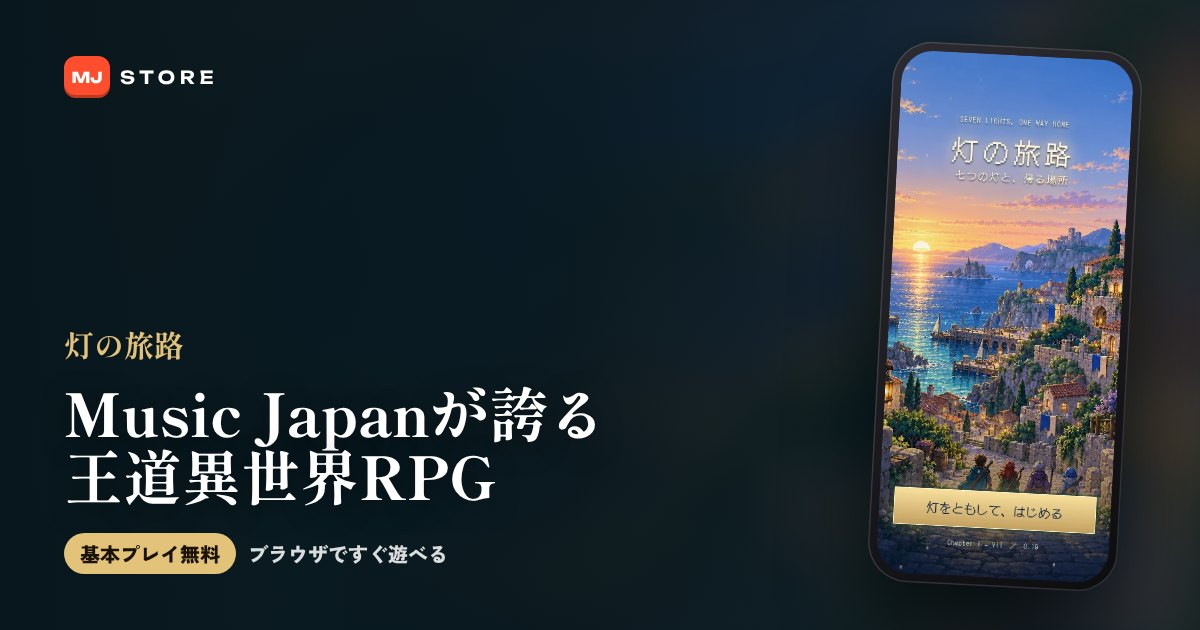
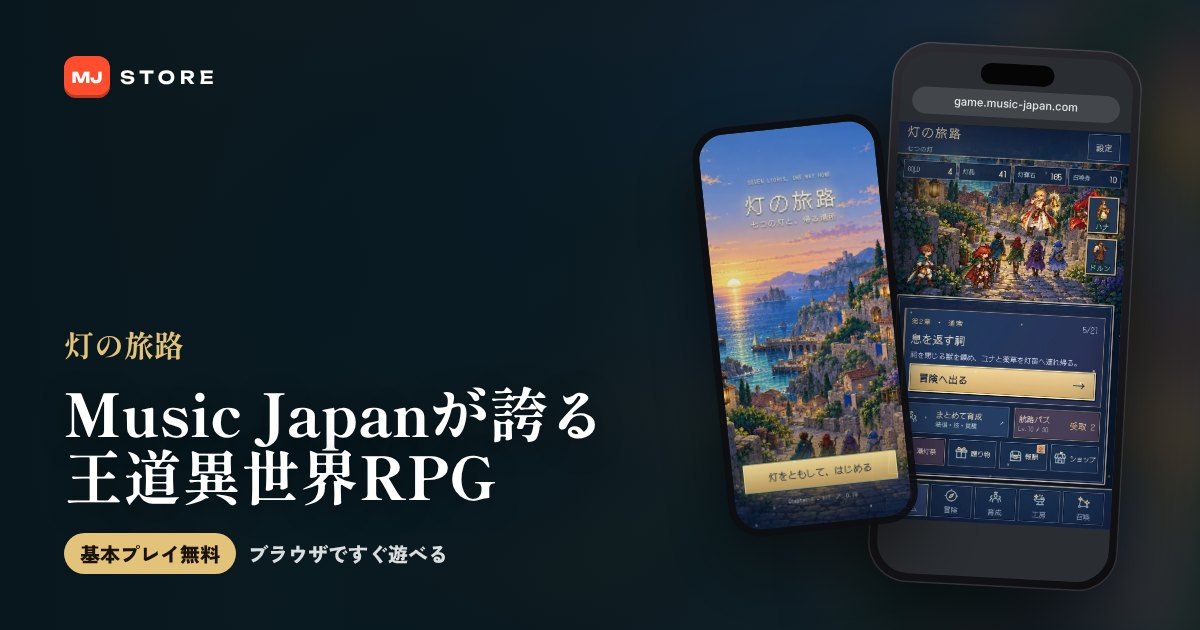
feat(mj-store): 灯の旅路の実際のプレイ画面を追加し、スマホのブラウザごと見せる
- 灯の旅路にホーム・バトル・クリア・召喚・新しい仲間の5画面を追加
- スマホのブラウザで撮った画面は、アドレスバーつきの実機フレームで見せる
- 一覧の画面は縦横比をそろえ、拡大表示はいま映っている画面から開く
- ヒーローの実機フレームがデスクトップで押せなかったのを直す
- OGP画像を作り直す

Claude-Session: https://claude.ai/code/session_01PQ9DNusMWZ8Vxhz8MCLqet

Changed region(s): [[0.5858, 0.0603, 0.9558, 0.9349]]

diff --git a/mj-store/src/render/util.ts b/mj-store/src/render/util.ts
@@ -32,9 +32,10 @@ export const abs = (ctx: RenderCtx, path: string): string =>
 export function shotImg(
   ctx: RenderCtx,
   shot: Shot,
-  opts: { cls?: string; lazy?: boolean; priority?: boolean; style?: string; sizes?: string } = {},
+  opts: { cls?: string; lazy?: boolean; priority?: boolean; style?: string; sizes?: string; data?: string } = {},
 ): string {
   const attrs = [
+    opts.data ?? '',
     `src="${href(ctx, shot.src)}"`,
     `width="${shot.w}"`,
     `height="${shot.h}"`,
@@ -53,13 +54,19 @@ export function shotImg(
  * 中の画像は JS で数秒ごとに切り替わる（[data-device]）。
  */
 export function deviceHtml(ctx: RenderCtx, g: Game, opts: { priority?: boolean; max?: number } = {}): string {
-  const shots = g.shots.slice(0, opts.max ?? g.shots.length);
-  const imgs = shots
-    .map((s, i) =>
+  /* スマホのブラウザで撮った画面（アドレスバーのぶん背が低い）があれば、ブラウザごと見せる */
+  const inBrowser = g.device === 'phone' && g.shots.some(isBrowserShot);
+  const picked = g.shots
+    .map((s, index) => ({ s, index }))
+    .filter(({ s }) => !inBrowser || isBrowserShot(s))
+    .slice(0, opts.max ?? g.shots.length);
+  const imgs = picked
+    .map(({ s, index }, i) =>
       shotImg(ctx, s, {
         cls: `device__shot${i === 0 ? ' is-on' : ''}`,
         priority: opts.priority && i === 0,
         lazy: !(opts.priority && i === 0),
+        data: `data-shot="${index}"`,
       }),
     )
     .join('');
@@ -71,11 +78,29 @@ export function deviceHtml(ctx: RenderCtx, g: Game, opts: { priority?: boolean; 
       <div class="device__screen">${imgs}</div>
     </div>`;
   }
+  if (inBrowser) {
+    const first = picked[0].s;
+    const host = play.split('/')[0];
+    return `
+    <div class="device device--phone device--safari" data-device>
+      <div class="device__screen">
+        <div class="device__top" aria-hidden="true"><span class="device__url">${icon.lock}${esc(host)}</span></div>
+        <div class="device__view" style="aspect-ratio:${first.w} / ${first.h}">${imgs}</div>
+        <div class="device__tabs" aria-hidden="true"><i></i><i></i><b></b><i></i><i></i></div>
+      </div>
+      <span class="device__island" aria-hidden="true"></span>
+    </div>`;
+  }
   return `
     <div class="device device--phone" data-device>
       <div class="device__screen">${imgs}</div>
       <span class="device__island" aria-hidden="true"></span>
     </div>`;
+}
+
+/** スマホのブラウザ（アドレスバーつき）で撮った、縦横比が短めの画面か */
+export function isBrowserShot(s: Shot): boolean {
+  return s.h < s.w * 1.95 && s.h > s.w;
 }
 
 /**
@@ -147,6 +172,7 @@ export const icon = {
   ),
   mail: svg('<path d="M3 5h18v14H3z" fill="none" stroke="currentColor" stroke-width="2"/><path d="M3.5 6l8.5 7 8.5-7" fill="none" stroke="currentColor" stroke-width="2"/>'),
   close: svg('<path d="M5 5l14 14M19 5L5 19" stroke="currentColor" stroke-width="2.2" stroke-linecap="square"/>'),
+  lock: svg('<path d="M6.5 11h11v9.5h-11zM9 11V8a3 3 0 0 1 6 0v3" fill="none" stroke="currentColor" stroke-width="2.2"/>'),
   star: svg('<path d="M12 2.8l2.8 5.9 6.4.8-4.7 4.4 1.2 6.4L12 17.2l-5.7 3.1 1.2-6.4L2.8 9.5l6.4-.8z" fill="currentColor"/>'),
   repost: svg('<path d="M4 10V7h13l-3-3M20 14v3H7l3 3" fill="none" stroke="currentColor" stroke-width="2"/>'),
   reply: svg('<path d="M4 5h16v11H9l-5 4z" fill="none" stroke="currentColor" stroke-width="2"/>'),

diff --git a/mj-store/src/data/games.ts b/mj-store/src/data/games.ts
@@ -20,6 +20,15 @@ const phone = (dir: string, name: string, alt: string, caption: string): Shot =>
   caption,
 });
 
+/** スマホのブラウザで遊んでいる画面（アドレスバーとタブバーのぶん背が低い）。ストアではブラウザごと見せる */
+const mobile = (dir: string, name: string, alt: string, caption: string): Shot => ({
+  src: `shots/${dir}/${name}.webp`,
+  w: 720,
+  h: 1233,
+  alt,
+  caption,
+});
+
 const wide = (dir: string, name: string, alt: string, caption: string): Shot => ({
   src: `shots/${dir}/${name}.webp`,
   w: 1440,
@@ -170,7 +179,7 @@ export const games: Game[] = [
       },
       {
         title: '手動とオートを切り替える戦術バトル',
-        body: 'じっくり指示を出すのも、オートで流れを見守るのも自由。敵の行動ごとに演出が変わるドット絵のバトルです。',
+        body: 'じっくり指示を出すのも、オートで流れを見守るのも自由。連携・猛攻・堅守の作戦と、仲間ごとのリミットスキルで戦況をひっくり返す、ドット絵のバトルです。',
       },
       {
         title: '七つの灯をめぐる物語',
@@ -205,7 +214,40 @@ export const games: Game[] = [
     device: 'phone',
     cardFocus: '50% 40%',
     shots: [
-      phone('lantern', '01-title', '灯の旅路のタイトル画面。夕日の海と港町を見下ろす、旅立ちの一行', 'タイトル'),
+      {
+        ...phone('lantern', '01-title', '灯の旅路のタイトル画面。夕日の海と港町を見下ろす、旅立ちの一行', 'タイトル'),
+        focus: '50% 62%',
+      },
+      mobile(
+        'lantern',
+        '02-home',
+        'ホーム画面。灯のともる石畳の坂道を仲間たちが歩く。第2章「息を返す祠」へ出発する「冒険へ出る」ボタンと、育成・航路パス・潮灯祭のメニュー',
+        'ホーム ── 第2章「息を返す祠」',
+      ),
+      mobile(
+        'lantern',
+        '03-battle',
+        '戦闘画面。声喰いの主・セイルとの戦いで、ソルのリミットスキル「日輪の福音」が発動。アレン・ミナ・ソル・セラの体力と技ゲージ、オートと手動の切り替え、連携・猛攻・堅守の作戦',
+        'バトル ── リミットスキル発動',
+      ),
+      mobile(
+        'lantern',
+        '04-victory',
+        'ステージ2-3「息を返す祠」のクリア画面「灯をつないだ」。ゴールド・灯晶・技書・覚醒印・灯輝石・経験値の獲得と、「物語の続きを見る」ボタン',
+        'クリア ── 灯をつないだ',
+      ),
+      mobile(
+        'lantern',
+        '05-summon',
+        '召喚画面「灯に集う者たち」。26人の召喚仲間から3人のイラストと「運命の灯を、つなごう」の文字',
+        '召喚 ── 灯に集う者たち',
+      ),
+      mobile(
+        'lantern',
+        '06-companions',
+        '召喚の結果画面「新しい灯が、ここに」。SRのゼノ（紫電の槍士）とSSRのシズク（雨音の剣姫）が新しく仲間に加わる',
+        '新しい仲間 ── ゼノとシズク',
+      ),
     ],
     news: [
       {

diff --git a/mj-store/src/styles/base.css b/mj-store/src/styles/base.css
@@ -1657,6 +1657,99 @@ ol {
   aspect-ratio: 1440 / 900;
 }
 
+/* スマホのブラウザで遊んでいる画面：上にアドレスバー、下にタブバー */
+.device--safari {
+  --dw: var(--device-w, 300px);
+}
+.device--safari .device__screen {
+  display: flex;
+  flex-direction: column;
+  background: #2a2d31;
+}
+.device__top {
+  flex: none;
+  display: flex;
+  align-items: flex-end;
+  height: calc(var(--dw) * 0.3);
+  padding: 0 calc(var(--dw) * 0.045) calc(var(--dw) * 0.03);
+}
+.device__url {
+  flex: 1;
+  display: flex;
+  align-items: center;
+  justify-content: center;
+  gap: calc(var(--dw) * 0.016);
+  height: calc(var(--dw) * 0.108);
+  border-radius: 999px;
+  background: rgba(255, 255, 255, 0.11);
+  font: 500 calc(var(--dw) * 0.043) / 1 -apple-system, BlinkMacSystemFont, 'Helvetica Neue', 'Zen Kaku Gothic New', sans-serif;
+  letter-spacing: 0.01em;
+  color: rgba(255, 255, 255, 0.86);
+  white-space: nowrap;
+}
+.device__url svg {
+  width: calc(var(--dw) * 0.036);
+  height: calc(var(--dw) * 0.036);
+  opacity: 0.6;
+}
+.device__view {
+  position: relative;
+  flex: none;
+  width: 100%;
+  overflow: hidden;
+  background: #000;
+}
+.device__tabs {
+  flex: 1;
+  display: flex;
+  align-items: flex-start;
+  justify-content: space-around;
+  padding: calc(var(--dw) * 0.05) calc(var(--dw) * 0.04) 0;
+}
+.device__tabs i,
+.device__tabs b {
+  width: calc(var(--dw) * 0.06);
+  height: calc(var(--dw) * 0.06);
+  border: solid rgba(255, 255, 255, 0.55);
+  border-width: 0 0 2px 2px;
+  transform: rotate(45deg);
+}
+.device__tabs i:nth-child(2) {
+  transform: rotate(-135deg);
+  opacity: 0.45;
+}
+.device__tabs b {
+  border: 2px solid rgba(255, 255, 255, 0.55);
+  border-radius: 50%;
+  transform: none;
+  position: relative;
+}
+.device__tabs b::before,
+.device__tabs b::after {
+  content: '';
+  position: absolute;
+  inset: 50% 25% auto;
+  height: 2px;
+  margin-top: -1px;
+  background: rgba(255, 255, 255, 0.7);
+}
+.device__tabs b::after {
+  transform: rotate(90deg);
+}
+.device__tabs i:nth-child(4) {
+  border-width: 2px;
+  border-radius: 4px;
+  transform: none;
+}
+.device__tabs i:nth-child(5) {
+  width: calc(var(--dw) * 0.075);
+  height: 4px;
+  margin-top: calc(var(--dw) * 0.028);
+  border: 0;
+  background: radial-gradient(circle, rgba(255, 255, 255, 0.6) 1.5px, transparent 2px) 0 50% / 33.3% 100%;
+  transform: none;
+}
+
 /* 光の粒 */
 .ambient {
   position: absolute;

diff --git a/mj-store/src/render/game.ts b/mj-store/src/render/game.ts
@@ -7,6 +7,7 @@ import {
   catchEm,
   catchHtml,
   deviceHtml,
+  isBrowserShot,
   dot,
   esc,
   href,
@@ -94,6 +95,9 @@ function aboutHtml(g: Game): string {
 
 function shotsHtml(ctx: RenderCtx, g: Game): string {
   if (!g.shots.length) return '';
+  /* ブラウザで撮った画面とフル画面が混ざるときは、ブラウザの画面の比率にそろえる */
+  const ref = g.device === 'phone' ? g.shots.find(isBrowserShot) : undefined;
+  const ratio = ref ? ` style="--shot-ratio:${ref.w} / ${ref.h}"` : '';
   return `
   <section class="g-sec g-shots g-shots--${g.device}" id="screenshots">
     <div class="container">
@@ -102,13 +106,13 @@ function shotsHtml(ctx: RenderCtx, g: Game): string {
         <h2 class="g-head__ja">実際の画面</h2>
       </header>
     </div>
-    <ul class="shots shots--${g.device}" data-shots>
+    <ul class="shots shots--${g.device}" data-shots${ratio}>
       ${g.shots
         .map(
           (s, i) => `
       <li class="shot" data-reveal style="--d:${i}">
         <button type="button" class="shot__btn" data-lightbox="${i}" aria-label="${esc(s.caption)}を大きく見る" data-sfx>
-          ${shotImg(ctx, s, { cls: 'shot__img' })}
+          ${shotImg(ctx, s, { cls: 'shot__img', style: s.focus ? `object-position:${s.focus}` : undefined })}
         </button>
         <p class="shot__cap"><span class="shot__no">${pad2(i + 1)}</span>${esc(s.caption)}</p>
       </li>`,

diff --git a/mj-store/src/styles/game.css b/mj-store/src/styles/game.css
@@ -78,6 +78,11 @@
   padding-bottom: clamp(56px, 8vw, 110px);
   padding-right: calc(var(--gutter) + var(--device-space));
   container-type: inline-size;
+  /* 右側の空きを素通しして、うしろの実機フレームを押せるようにする */
+  pointer-events: none;
+}
+.g-hero__inner > * {
+  pointer-events: auto;
 }
 .g-hero__device {
   position: absolute;
@@ -495,6 +500,8 @@
   height: auto;
 }
 .shots--phone .shot__img {
+  aspect-ratio: var(--shot-ratio, auto);
+  object-fit: cover;
   border-radius: 22px;
 }
 .shot__btn:hover {

diff --git a/mj-store/src/lib/device.ts b/mj-store/src/lib/device.ts
@@ -72,8 +72,8 @@ export function initLightbox(): void {
     d.setAttribute('tabindex', '0');
     d.setAttribute('aria-label', '実際の画面を大きく見る');
     const go = () => {
-      const shots = Array.from(d.querySelectorAll('.device__shot'));
-      open(Math.max(0, shots.findIndex((s) => s.classList.contains('is-on'))), d);
+      const on = d.querySelector<HTMLElement>('.device__shot.is-on');
+      open(Number(on?.dataset.shot ?? 0), d);
     };
     d.addEventListener('click', go);
     d.addEventListener('keydown', (e) => {

diff --git a/mj-store/src/data/types.ts b/mj-store/src/data/types.ts
@@ -43,6 +43,8 @@ export interface Shot {
   alt: string;
   /** 画像の下に出す短い見出し */
   caption: string;
+  /** 一覧で縦横比をそろえて切り抜くときに残す位置（object-position） */
+  focus?: string;
 }
 
 export interface GameTheme {
